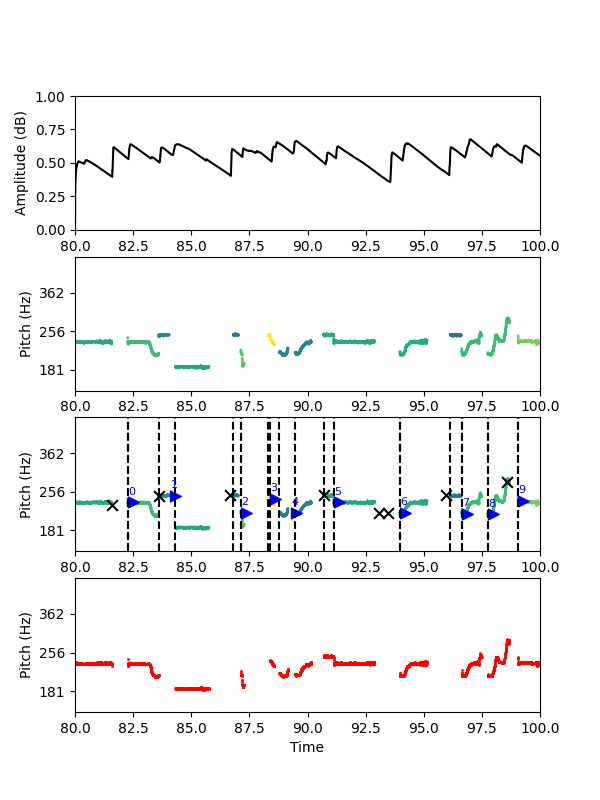
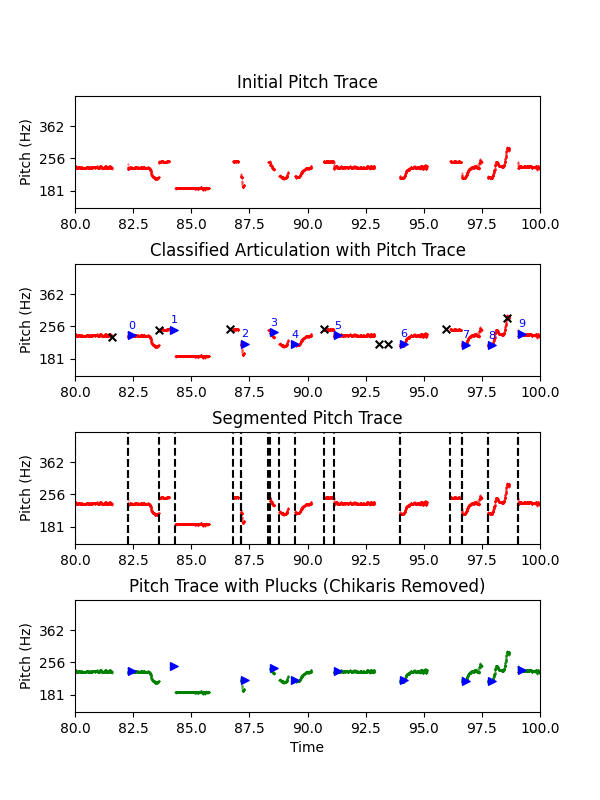
printing out clearer segmentations

diff --git a/python/auto_transcribe/melodic_contour.py b/python/auto_transcribe/melodic_contour.py
@@ -102,33 +102,28 @@ def make_amplitude_plot(ax_amp, normed_amp, start, end):
 
 def make_just_contour_plot(ax_0, x_vals, log_pitch, log_fund, start, end, colors):
     x_vals = np.linspace(start, end, len(log_pitch))
-    # ax_0.plot(np.arange(len(normed_amp)), normed_amp, color='black')
-    ax_0.scatter(x_vals, log_pitch, c=colors, s=1)
+    ax_0.scatter(x_vals, log_pitch, c="red", s=0.1)
     ax_0.set_ylabel('Pitch (Hz)')
-    # ax_0.set_title('Melodic Contour')
     ax_0.set_ylim([np.log2(min_freq), np.log2(max_freq)])
     y_ticks = ax_0.get_yticks()
     labels = [str(int(2**y)) for y in y_ticks]
     ax_0.set_yticklabels(labels)
     ax_0.set_xlim([start, end])
-
-def make_annotated_contour_plot(ax, log_pitch, log_fund, start, end, colors, 
-                                pluck_onset_idxs, chikari_onset_idxs, idx_groups):
+    ax_0.set_title("Initial Pitch Trace")
+    
+def make_contour_plot_with_onsets(ax, log_pitch, log_fund, start, end, colors,
+                                  pluck_onset_idxs, chikari_onset_idxs, idx_groups):
     x_vals = np.linspace(start, end, len(log_pitch))
-    ax.scatter(x_vals, log_pitch, c=colors, s=1)
+    ax.scatter(x_vals, log_pitch, c="red", s=0.1)
     ax.set_ylabel('Pitch (Hz)')
     ax.set_ylim([np.log2(min_freq), np.log2(max_freq)])
     y_ticks = ax.get_yticks()
     labels = [str(int(2**y)) for y in y_ticks]
     ax.set_yticklabels(labels)
-    # normed_pluck_onsets = pluck_onsets / (end - start)
-    # pluck_onset_idxs = (normed_pluck_onsets * len(log_pitch)).astype(int)
     pluck_onset_vals = log_pitch[pluck_onset_idxs]
     for i in range(len(pluck_onset_idxs)):
         if np.isnan(pluck_onset_vals[i]):
             pluck_onset_vals[i] = find_nearest_non_nan(log_pitch, pluck_onset_idxs[i])
-    # normed_chikari_onsets = chikari_onsets / (end - start)
-    # chikari_onset_idxs = (normed_chikari_onsets * len(log_pitch)).astype(int)
     chikari_onset_vals = log_pitch[chikari_onset_idxs]
     for i in range(len(chikari_onset_idxs)):
         if np.isnan(chikari_onset_vals[i]):
@@ -140,18 +135,31 @@ def make_annotated_contour_plot(ax, log_pitch, log_fund, start, end, colors,
     for i, (x, y) in enumerate(zip(x_vals[pluck_onset_idxs], pluck_onset_vals)):
         ax.text(x + 0.01, y + 0.1, str(i), color='blue', fontsize=8)
     ax.scatter(x_vals[pluck_onset_idxs], pluck_onset_vals, 
-              marker=triangle_marker, color='blue', s=60, 
+              marker=triangle_marker, color='blue', s=30, 
               label='Pluck Onsets')
     ax.scatter(x_vals[chikari_onset_idxs], chikari_onset_vals, 
-              marker='x', color='black', s=60, 
+              marker='x', color='black', s=30, 
               label='Chikari Onsets')
+    ax.set_xlim([start, end])
+    ax.set_title("Classified Articulation with Pitch Trace")
+
+def make_segmented_contour_plot(ax, log_pitch, log_fund, start, end, colors, 
+                                pluck_onset_idxs, chikari_onset_idxs, idx_groups):
+    x_vals = np.linspace(start, end, len(log_pitch))
+    ax.scatter(x_vals, log_pitch, c="red", s=0.1)
+    ax.set_ylabel('Pitch (Hz)')
+    ax.set_ylim([np.log2(min_freq), np.log2(max_freq)])
+    y_ticks = ax.get_yticks()
+    labels = [str(int(2**y)) for y in y_ticks]
+    ax.set_yticklabels(labels)
     ax.set_xlim([start, end])
     ig_starts = [g[0] for g in idx_groups]
     for igs in ig_starts:
         ax.axvline(x=x_vals[igs], color='black', linestyle='--')
+    ax.set_title('Segmented Pitch Trace')
     
 def make_filtered_contour_plot(ax1, log_pitch, log_fund, start, end, 
-                               filtered_index_groups):
+                               filtered_index_groups, pluck_onset_idxs):
     x_vals = np.linspace(start, end, len(log_pitch))
     ax1.set_ylabel('Pitch (Hz)')
     ax1.set_ylim([np.log2(min_freq), np.log2(max_freq)])
@@ -161,16 +169,30 @@ def make_filtered_contour_plot(ax1, log_pitch, log_fund, start, end,
     ax1.set_xlim([start, end])
     ax1.set_xlabel('Time')
     for g in filtered_index_groups:
-        ax1.scatter(x_vals[g], log_pitch[g], c='red', s=1) 
+        ax1.scatter(x_vals[g], log_pitch[g], c='green', s=0.1)
+    ax1.set_title("Pitch Trace with Plucks (Chikaris Removed)")
+    
+    
+    pluck_onset_vals = log_pitch[pluck_onset_idxs]
+    for i in range(len(pluck_onset_idxs)):
+        if np.isnan(pluck_onset_vals[i]):
+            pluck_onset_vals[i] = find_nearest_non_nan(log_pitch, pluck_onset_idxs[i])
+    
+    triangle_marker = MarkerStyle(marker='^')
+    triangle_marker._transform = triangle_marker.get_transform().rotate_deg(270)
+    triangle_marker._transform = triangle_marker._transform.translate(0.5, 0)
+
+    ax1.scatter(x_vals[pluck_onset_idxs], pluck_onset_vals, 
+              marker=triangle_marker, color='blue', s=30, 
+              label='Pluck Onsets')
+    
+    
 
 def get_contour(audio: np.ndarray, idx: int, pluck_onsets: np.ndarray, 
                 chikari_onsets: np.ndarray, start: float, end: float, 
                 fund: float):
-    # compute the melodic contour
     log_fund = np.log2(fund)
     voicing_tolerance = 0.7
-    # min_freq = 100
-    # max_freq = 400
     eq_loud_audio = ess.EqualLoudness()(audio)
     frame_size = 2048
     ppm = ess.PredominantPitchMelodia(minFrequency = min_freq, 
@@ -199,7 +221,7 @@ def get_contour(audio: np.ndarray, idx: int, pluck_onsets: np.ndarray,
     pluck_onset_idxs = (normed_pluck_onsets * len(log_pitch)).astype(int)
     
     idx_groups = get_idx_groups(log_pitch, pluck_onset_idxs, 0.1)
-    threshold = 0.05
+    threshold = 0.1
     
     oct_above_fund = log_fund + 1
     on_fund = [
@@ -211,9 +233,16 @@ def get_contour(audio: np.ndarray, idx: int, pluck_onsets: np.ndarray,
     viridis = cm.get_cmap('viridis', 256)
     colors = viridis(norm_confidence)
     fig, axes = plt.subplots(4, 1, figsize=(6, 8))
-    make_amplitude_plot(axes[0], normed_amp, start, end)
-    make_just_contour_plot(axes[1], np.linspace(start, end, len(log_pitch)), log_pitch, log_fund, start, end, colors)
-    make_annotated_contour_plot(axes[2], log_pitch, log_fund, start, end, 
+    plt.subplots_adjust(hspace=0.5)
+    # make_amplitude_plot(axes[0], normed_amp, start, end)
+    
+    make_just_contour_plot(axes[0], np.linspace(start, end, len(log_pitch)), 
+                           log_pitch, log_fund, start, end, colors)
+    make_contour_plot_with_onsets(axes[1], log_pitch, log_fund, start, end, 
+                                  colors, pluck_onset_idxs, chikari_onset_idxs, 
+                                  idx_groups)
+    
+    make_segmented_contour_plot(axes[2], log_pitch, log_fund, start, end, 
                                 colors, pluck_onset_idxs, chikari_onset_idxs,
                                 idx_groups)
     
@@ -221,7 +250,7 @@ def get_contour(audio: np.ndarray, idx: int, pluck_onsets: np.ndarray,
     
     #TODO turn this part into a `make_filtered_contour` function
     ig_starts = [g[0] for g in idx_groups]   
-    chik_starts = within_threshold(chikari_onset_idxs, ig_starts, 20)
+    chik_starts = within_threshold(chikari_onset_idxs, ig_starts, 40)
     pluck_starts = within_threshold(pluck_onset_idxs, ig_starts, 20)
     
     removable_chik_seg = chik_starts & np.array(on_fund)
@@ -233,11 +262,11 @@ def get_contour(audio: np.ndarray, idx: int, pluck_onsets: np.ndarray,
         if i in removable_chik_seg_idxs or i in removable_pluck_seg_idxs:
             continue
         filtered_index_groups.append(g)    
-    x_vals = np.linspace(start, end, len(log_pitch))
+    # x_vals = np.linspace(start, end, len(log_pitch))
     log_fund = np.log2(fund)
     
     make_filtered_contour_plot(axes[3], log_pitch, log_fund, start, end, 
-                               filtered_index_groups)
+                               filtered_index_groups, pluck_onset_idxs)
     
 
         
